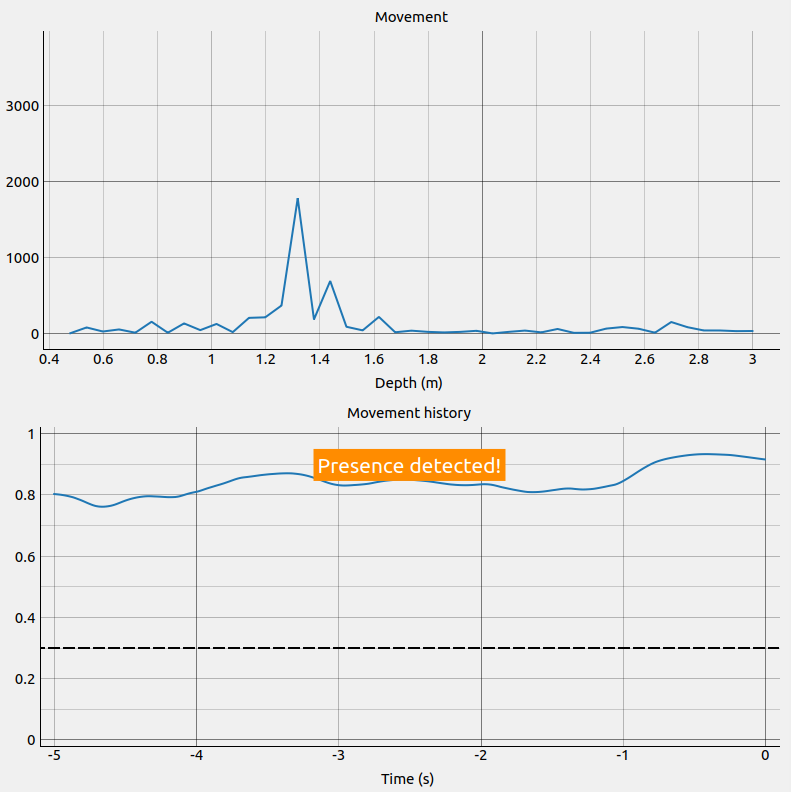
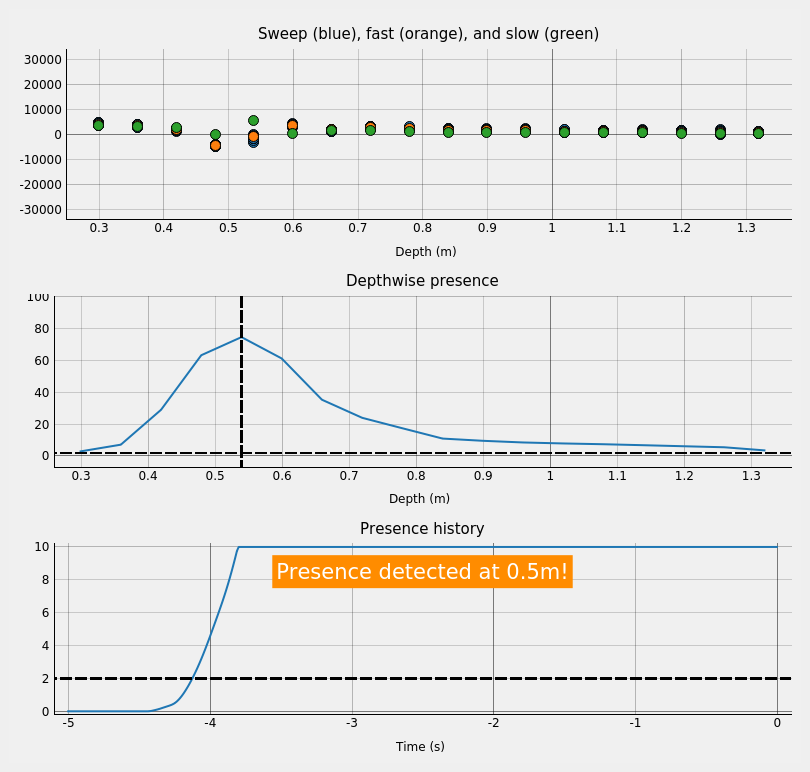
Update sparse presence docs

diff --git a/lib/acconeer_utils/structs/configbase.py b/lib/acconeer_utils/structs/configbase.py
@@ -365,8 +365,9 @@ class Parameter:
 
         self.pidgets = WeakKeyDictionary()
 
-        if self.help:
-            self.__doc__ = self.help
+        doc = self.generate_doc().strip()
+        if doc:
+            self.__doc__ = doc
 
     def update_pidget(self, obj):
         pidget = self.get_pidget(obj)
@@ -393,6 +394,9 @@ class Parameter:
 
     def load(self):
         pass
+
+    def generate_doc(self):
+        return self.help
 
 
 class ValueParameter(Parameter):
@@ -440,8 +444,28 @@ class ValueParameter(Parameter):
     def load(self, obj, value):
         self.__set__(obj, value)
 
+    def generate_doc(self):
+        s = ""
+        if self.help:
+            s += self.help
+            s += "\n\n"
+
+        type_str = getattr(self, "type_str", None)
+        if type_str:
+            s += "| Type: {}\n".format(type_str)
+
+        unit = getattr(self, "unit", None)
+        if unit:
+            s += "| Unit: {}\n".format(unit)
+
+        s += "| Default value: {}\n".format(self.default_value)
+
+        return s
+
 
 class BoolParameter(ValueParameter):
+    type_str = "bool"
+
     def __init__(self, **kwargs):
         kwargs.setdefault("pidget_class", BoolCheckboxPidget)
 
@@ -476,6 +500,8 @@ class NumberParameter(ValueParameter):
 
 
 class IntParameter(NumberParameter):
+    type_str = "int"
+
     def __init__(self, **kwargs):
         self.step = kwargs.pop("step", 1)
 
@@ -504,6 +530,8 @@ class IntParameter(NumberParameter):
 
 
 class FloatParameter(NumberParameter):
+    type_str = "float"
+
     def __init__(self, **kwargs):
         self.decimals = kwargs.pop("decimals", 2)
         self.logscale = kwargs.pop("logscale", False)

diff --git a/examples/processing/presence_detection_sparse.py b/examples/processing/presence_detection_sparse.py
@@ -137,6 +137,7 @@ class ProcessingConfiguration(configbase.ProcessingConfig):
             default_value=True,
             updateable=True,
             order=100,
+            help="Show the sweep data and the fast and slow filtered version of the subsweep mean",
             )
 
     show_noise = configbase.BoolParameter(
@@ -144,6 +145,7 @@ class ProcessingConfiguration(configbase.ProcessingConfig):
             default_value=False,
             updateable=True,
             order=110,
+            help="Show the noise estimation",
             )
 
     show_depthwise_output = configbase.BoolParameter(
@@ -151,6 +153,7 @@ class ProcessingConfiguration(configbase.ProcessingConfig):
             default_value=True,
             updateable=True,
             order=120,
+            help="Show the depthwise presence output",
             )
 
 

diff --git a/docs/conf.py b/docs/conf.py
@@ -18,7 +18,13 @@ author = 'Acconeer AB'
 extensions = [
     'sphinx.ext.mathjax',
     'sphinx.ext.autodoc',
+    'sphinx.ext.graphviz',
 ]
+
+autodoc_member_order = 'bysource'
+
+graphviz_dot_args = []
+graphviz_output_format = "svg"
 
 source_suffix = '.rst'
 

diff --git a/lib/acconeer_utils/__init__.py b/lib/acconeer_utils/__init__.py
@@ -1,1 +1,1 @@
-__version__ = "2.6.2"
+__version__ = "2.6.3"

diff --git a/docs/processing/presence_detection_sparse.rst b/docs/processing/presence_detection_sparse.rst
@@ -1,30 +1,167 @@
 Presence detection (sparse)
 ===========================
 
-An example of a presence/motion detection algorithm based on the :ref:`sparse-service` service. Similarly to its :ref:`iq-service` service counterpart, :ref:`iq-presence-detection`, this example of presence detection measures small changes in radar response over time through the difference between a fast and a slow IIR filter.
+A presence detection algorithm built on top of the :ref:`sparse-service` service - based on measuring changes in the radar response over time.
 
-The :ref:`sparse-service` service returns sweeps in the form of multiple subsweeps. Each subsweep constitutes of :math:`N_d` range points spaced roughly 6 cm apart. We denote sweeps captured using the sparse service as :math:`x(f,s,d)`, where :math:`f` denotes the sweep index, :math:`s` the subsweep index and :math:`d` the range index. As described in the documentation of the :ref:`sparse-service` service, small movements within the field of view of the radar appear as large sinusoidal movements of the spatial sampling points over time. For each range point, we thus wish to detect any changes between individual point samples occurring in the :math:`s` dimension.
+The :ref:`sparse-service` service returns sweeps in the form of :math:`N_s` subsweeps, each consisting of :math:`N_d` range depth points, normally spaced roughly 6 cm apart. We denote sweeps captured using the sparse service as :math:`x(f,s,d)`, where :math:`f` denotes the sweep index, :math:`s` the subsweep index and :math:`d` the range depth index. As described in the documentation of the :ref:`sparse-service` service, small movements within the field of view of the radar appear as sinusoidal movements of the sampling points over time. Thus, for each range depth point, we wish to detect changes between individual point samples occurring in the :math:`f` (and :math:`s`) dimension.
 
-In this example, this is accomplished using exponential smoothing. Two exponential filters are used, one with a larger smoothing factor, :math:`\alpha_{fa}`, and one with a smaller, :math:`\alpha_{sl}`. Each subsweep of a sweep is thus filtered through
+This presence detection algorithm achieves this by depthwise looking at the deviation between a fast and a slow low pass filtered version of the signal. This deviation is then filtered again both in time and depth. To be more robust against changing environments and variations between sensors, a normalization is done against the noise floor.
 
-.. math::
-    x_{sl}(d) \leftarrow \alpha_{sl}x_{sl}(d) + (1 - \alpha_{sl})x(f, s, d),
-
-.. math::
-    x_{fa}(d) \leftarrow \alpha_{fa}x_{fa}(d) + (1 - \alpha_{fa})x(f, s, d).
-
-A detection metric, :math:`\delta`, is obtained by taking the average difference between the two smoothed outputs as in
-
-.. math::
-    \delta = \frac{1}{N_d}\sum_{i=0}^{N_d-1}|x_{fa}(i) - x_{sl}(i)|.
-
-:math:`\delta` thus corresponds to amount of movement occurring in the radars field of view. Finally, :math:`\delta` is thresholded to produce a prediction if movement was significant.
-
-The presence detector can be tuned by changing the :math:`\alpha_{fa}` parameter. This parameter can be related to a time constant :math:`\tau_{fa}`, which corresponds to what movement speeds will be detected. Increasing :math:`\tau_{fa}` will also increase the noise floor in :math:`\delta`, so a tuning of the threshold might be necessary when altering :math:`\tau_{fa}`.
+Plots
+-----
 
 .. image:: /_static/processing/sparse_presence.png
 
-In the above image output of the sparse presence detection algorithm is shown. The top plot shows the :math:`|x_{fa}(d) - x_{sl}(d)|` vector. Clear detection of a moving target is seen at a distance of roughly 1.3 m. In the bottom part the evolution of :math:`\delta` is plotted. Since :math:`\delta` is above the threshold of 0.3 presence is detected.
+The above image shows a screenshot of the detector plots. In it, we can a target detected at around 0.5 m.
+
+**Top plot:**
+The sweep :math:`x` (blue dots), along with the fast (orange) and slow (green) filtered subsweep mean
+:math:`\bar{y}_\text{fast}` and :math:`\bar{y}_\text{slow}` respectively.
+The distance between the fast (orange) and slow (green) dots is the basis for this detector.
+
+**Middle plot:**
+The "depthwise presence" :math:`z`. This signal is the time and depth filtered (and noise normalized) version of the distance between the fast and slow filter.
+
+**Bottom plot:**
+The detector output :math:`\bar{v}`. Typically limited to give a clearer view. This is basically a time filtered maximum of the above plot.
+
+**Not shown:** The noise estimation :math:`\bar{n}`, used for normalization of the signal.
+
+Detailed description
+--------------------
+
+Inter-frame detection basis
+^^^^^^^^^^^^^^^^^^^^^^^^^^^
+
+In the typical case, the time between *sweeps* is far greater than the time between *subsweeps*. Typically, the sweep rate is 5 - 100 Hz while the subsweep rate is 3 - 30 kHz. Therefore, when looking for slow movements - presence - the subsweeps in a sweep can be regarded as being sampled at the same point in time. This allows us to take the mean over all subsweeps without loosing any information. Let the *mean subsweep* be denoted as
+
+.. math::
+   y(f, d) = \frac{1}{N_s} \sum_s x(f, s, d)
+
+We take this mean subsweep :math:`y` and depthwise run it though two `exponential smoothing`_ filters (first order IIR filters). One slower filter with a larger `smoothing factor`_, and one faster filter with a smaller smoothing factor. Let :math:`\alpha_\text{fast}` and :math:`\alpha_\text{slow}` be the smoothing factors and :math:`\bar{y}_\text{fast}` and :math:`\bar{y}_\text{slow}` be the filtered subsweep means.
+In the implementation, the smoothing factors :math:`\alpha_\text{fast}` and :math:`\alpha_\text{slow}` are set through the
+:attr:`~examples.processing.presence_detection_sparse.ProcessingConfiguration.fast_cutoff`
+and
+:attr:`~examples.processing.presence_detection_sparse.ProcessingConfiguration.slow_cutoff`
+parameters.
+For every depth :math:`d`, for every new frame :math:`f`:
+
+
+.. math::
+   \bar{y}_\text{slow}(f, d) = \alpha_\text{slow} \cdot \bar{y}_\text{slow}(f-1, d) + (1 - \alpha_\text{slow}) \cdot y(f, d)
+
+   \bar{y}_\text{fast}(f, d) = \alpha_\text{fast} \cdot \bar{y}_\text{fast}(f-1, d) + (1 - \alpha_\text{fast}) \cdot y(f, d)
+
+From the fast and slow filtered subsweep means, a deviation metric :math:`s` is obtained by taking the absolute deviation between the two:
+
+.. math::
+   s(f, d) = |\bar{y}_\text{fast}(f, d) - \bar{y}_\text{slow}(f, d)|
+
+Basically, :math:`s` relates to the instantaneous power of a bandpass filtered version of :math:`y`. This metric is then filtered again with a smoothing factor :math:`\alpha_\text{dev}`, set through the
+:attr:`~examples.processing.presence_detection_sparse.ProcessingConfiguration.deviation_tc`
+parameter,
+to get a more stable metric:
+
+.. math::
+   \bar{s}(f, d) = \alpha_\text{dev} \cdot \bar{s}(f-1, d) + (1 - \alpha_\text{dev}) \cdot s(f, d)
+
+This is the starting point of the inter-frame presence detection algorithm. In a few words - depthwise low pass filtered power of the bandpass filtered signal. But before it's used, it's favorable to normalize it with noise floor, discussed in the following section.
+
+Noise estimation
+^^^^^^^^^^^^^^^^
+
+To normalize detection levels, we need an estimate of the noise power generated by the sensor. We assume that from a static channel, i.e., a radar signal with no moving reflections, the noise is white and its power is its variance. However, we do not want to rely on having such a measurement to obtain this estimate.
+
+Since we're looking for motions generated by humans and other living things, we know that we typically won't see fast moving objects in the data. In other words, we may assume that *high frequency content in the data originates from sensor noise*.
+Since we have a relatively high subsweep rate, we may take advantage of this to measure high frequency content.
+
+Extracting the high frequency content from the data can be done in numerous ways. The simplest to implement is possibly a FFT, but it is computationally expensive. Instead, we use another technique which is both robust and cheap.
+
+First, to remove any trends in the subsweep from fast motion, we differentiate each sweep over all the subsweeps :math:`N_\text{diff}=3` times:
+
+.. math::
+   x'(f, s, d) = x^{(1)}(f, s, d) = x(f, s, d) - x(f, s - 1, d)
+
+.. math::
+   ...
+
+.. math::
+   x^{(N_\text{diff})}(f, s, d) = x^{(N_\text{diff} - 1)}(f, s, d) - x^{(N_\text{diff} - 1)}(f, s - 1, d)
+
+
+Then, take the mean absolute deviation:
+
+.. math::
+   \hat{n}(f, d) = \frac{1}{N_s - N_\text{diff}} \sum_{s=N_\text{diff}}^{N_s} | x^{(N_\text{diff})}(f, s, d) |
+
+And normalize such that the expectation value would be the same as if no differentiation was applied:
+
+.. math::
+   n(f, d) = \hat{n}(f, d)
+   \cdot
+   \left[
+       \sum_{k=0}^{N_\text{diff}} \binom{N_\text{diff}}{k}^2
+   \right]^{-1/2}
+
+Finally, apply an exponential smoothing filter with a smoothing factor :math:`\alpha_\text{noise}`, set through the
+:attr:`~examples.processing.presence_detection_sparse.ProcessingConfiguration.noise_tc`
+parameter,
+to get a more stable metric:
+
+.. math::
+   \bar{n}(f, d) = \alpha_\text{noise} \cdot \bar{n}(f-1, d) + (1 - \alpha_\text{noise}) \cdot n(f, d)
+
+Generating the detector output
+^^^^^^^^^^^^^^^^^^^^^^^^^^^^^^
+
+With the noise estimate :math:`\bar{n}`, we form a depthwise normalized inter-frame detection:
+
+.. math::
+   \bar{s}_n(f, d) = \frac{\bar{s}(f, d) \cdot \sqrt{N_s}}{\bar{n}(f, d)}
+
+Finally, since the reflection typically span several depth points, we apply a small depth filter:
+
+.. math::
+   z(f, d) = \frac{1}{3} \sum_{i=-1}^{1} \bar{s}_n(f, d + i)
+
+where the signal :math:`\bar{s}_n` is zero-padded, i.e.:
+
+.. math::
+   \bar{s}_n(f, d) = 0 \text{ for } d \lt 1 \text{ and } d \gt N_d
+
+From :math:`z`, we can extract the information we are looking for. Is there someone present in front of the sensor, and if so, where? To answer this, we simply look for a peak in the data :math:`z`. To give the detection decision a bit of inertia, we also add a smoothing filter to the peak value.
+
+.. math::
+   v(f) = \max_d(z(f, d))
+
+.. math::
+   \bar{v}(f) = \alpha_\text{output} \cdot \bar{v}(f-1) + (1 - \alpha_\text{output}) \cdot v(f)
+
+.. math::
+   p = v > v_\text{threshold}
+
+.. math::
+   d_p = \arg\max_d(z(f, d))
+
+where :math:`p` is the "present"/"not present" output and :math:`d_p` is the presence depth index output.
+
+It is possible to tune :math:`\alpha_\text{output}` through the
+:attr:`~examples.processing.presence_detection_sparse.ProcessingConfiguration.output_tc`
+parameter. The threshold :math:`v_\text{threshold}` is settable through the
+:attr:`~examples.processing.presence_detection_sparse.ProcessingConfiguration.threshold`
+parameter.
+
+Overview
+^^^^^^^^
+
+.. graphviz:: /graphs/presence_detection_sparse.dot
+   :align: center
+
+Configuration
+-------------
 
 .. autoclass:: examples.processing.presence_detection_sparse.ProcessingConfiguration
    :members:
+
+.. _`exponential smoothing`: https://en.wikipedia.org/wiki/Exponential_smoothing
+.. _`smoothing factor`: https://en.wikipedia.org/wiki/Exponential_smoothing
